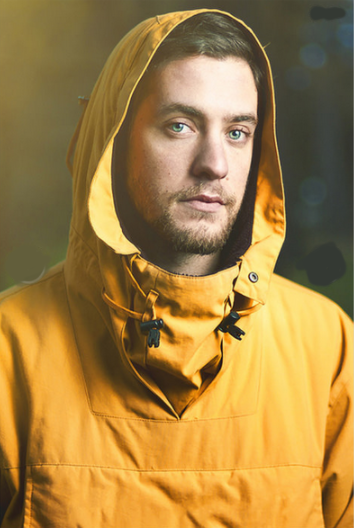
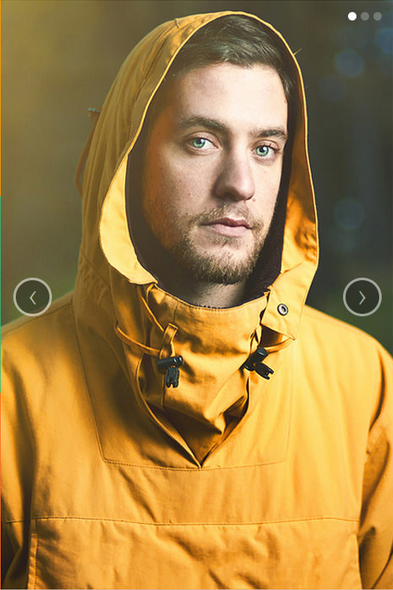
a

diff --git a/style.css b/style.css
@@ -1,280 +1,83 @@
-@font-face {
-    font-family: "Parisine";
-    src: url("Parisine.otf") format("opentype");
+* {
+    font-size: 12px;
+    color: white;
+    text-decoration: none;
 }
-
+.caseProp {
+    display: inline-block;
+    width: 20.1%;
+    height: 100%;
+}
 .menu {
-    width: 889px;
-    height: 525px;
-    border: 15px solid #d0d0d0;
-    font-family: "Parisine";
-    top: 0;
+    position: relative;
+    width: 800px;
+    height: 500px;
+    border: 10px darkgrey solid;
 }
-
-.absolute {
-    position: absolute;
+.ligne {
+    display: block;
+    width: 100%;
+    height: 33.33%;
 }
-
-.casePropriete {
-    width: 177px;
-    height: 175px;
-    position: absolute;
-}
-
-.lignePropriete {
-    position: absolute;
-    left: 0;
-}
-
-.icone {
-    z-index: 1;
-    position: absolute;
-}
-
-.ligne1 {
-    width: 531px;
-    height: 175px;
+.margeNega {
+    margin-right: -4px;
+    text-align: center;
 }
 .case1 {
-    top: 0;
-    left: 0;
-    width: 354px;
-    height: 175px;
-    background-color: #35bc7a;
+    display: inline-block;
+    width: 40%;
+    height: 100%;
+    background-color: darkseagreen;
+    margin-right: -4px;
 }
-
+.case1 .case li{
+    display: inline-block;
+    width: 80px;
+    height: 20px;
+    border: 2px solid white;
+    margin: 2% 8px;
+    text-align: center;
+}
+.case1 .titre {
+    font-size: 20px;
+    margin: 20px;
+}
+.case1 .text {
+    margin-left: 20px;
+}
 .case2 {
-    left: 354px;
-    background-color: #ff9e00
+    background-color: #ff9e00;
+    vertical-align: top;
 }
-
-.ligne2 {
-    top: 175px;
-    width: 531px;
-    height: 175px;
-}
-
 .case3 {
-    left: 0;
     background-color: #1e8bc4;
 }
-
 .case4 {
-    left: 177px;
     background-color: #f15a49;
 }
-
 .case5 {
-    left: 354px;
     background-color: #35bc7a;
 }
-
-.ligne3 {
-    top: 350px;
-    width: 531px;
-    height: 175px;
-}
-
 .case6 {
-    left: 0;
     background-color: #f86925;
 }
-
 .case7 {
-    left: 177px;
     background-color: #1e8bc4;
 }
-
 .case8 {
-    left: 354px;
     background-color: #f86925;
 }
-
-a {
-    text-decoration: none;
-    color: white;
-}
-
-br {
-    content: "";
-    display: block;
-    margin-top: 9px;
-}
-
-.case1 .titre {
-    color: white;
-    margin-top: 40px;
-    margin-left: 23px;
-    font-size: 20px;
-    text-transform: uppercase;
-}
-
-.case1 .text {
-    top: 72px;
-    color: white;
-    font-size: 10px;
-    margin-left: 22px;
-}
-
-.case1 .case {
-    padding: 0;
-    margin: 0;
-    list-style: none;
-    text-align: center;
-    vertical-align: center;
-
-}
-
-.case1 .case li {
-    display: inline;
-    padding: 0;
-    margin-right: 90px;
-}
-
-.case1 .case #case1 {
-    display: block;
-    left: 23px;
-    top: 120px;
-    width: 82px;
-    height: 32px;
-    border: solid white 2px;
-}
-
-.case1 .case #case1 span {
-    position: relative;
-    top: 17%;
-    color: white;
-    font-size: 10px;
-}
-
-.case1 .case #case2 {
-    display: block;
-    left: 115px;
-    top: 120px;
-    width: 82px;
-    height: 32px;
-    border: solid white 2px;
-}
-
-.case1 .case #case2 span {
-    position: relative;
-    top: 17%;
-    color: white;
-    font-size: 10px;
-}
-
-.case2{
-    color: white;
-}
-
-.case2 i{
-    top: 30%;
-    left: 35%;
+.textIcone {
+    padding-top: 30%;
     font-size: 40px;
 }
-
-.case2 p {
-    top: 50%;
-    left: 35%;
-    font-size: 12px;
-}
-
-.case3 i{
-    top: 30%;
-    left: 35%;
-    font-size: 40px;
-}
-
-.case3 p {
-    top: 50%;
-    left: 25%;
-    font-size: 12px;
-}
-
-.case4 i{
-    top: 30%;
-    left: 35%;
-    font-size: 40px;
-}
-
-.case4 p {
-    top: 50%;
-    left: 25%;
-    font-size: 12px;
-}
-
-.case5 i{
-    top: 30%;
-    left: 35%;
-    font-size: 40px;
-}
-
-.case5 p {
-    top: 50%;
-    left: 36.5%;
-    font-size: 12px;
-}
-
-.case6 i{
-    top: 30%;
-    left: 35%;
-    font-size: 40px;
-}
-
-.case6 p {
-    top: 50%;
-    left: 23%;
-    font-size: 12px;
-}
-
-.case7 i{
-    top: 30%;
-    left: 35%;
-    font-size: 40px;
-}
-
-.case7 p {
-    top: 50%;
-    left: 30%;
-    font-size: 12px;
-}
-
-.case8 i{
-    top: 30%;
-    left: 35%;
-    font-size: 40px;
-}
-
-.case8 p {
-    top: 50%;
-    left: 31%;
-    font-size: 12px;
-}
-
-.imageDroite img {
+img {
+    position: absolute;
     top: 0;
-    left: 531px;
-    width: 359px;
-    height: 525px;
+    right: 0;
+    width: 40%;
+    height: 100%;
 }
-
-.imageDroite .flecheGauche {
-    top: 255px;
-    left: 538px;
-    font-size: 30px;
-    color: white;
-}
-
-.imageDroite .flecheDroite {
-    top: 255px;
-    left: 865px;
-    font-size: 30px;
-    color: white;
-}
-
-.imageDroite .point {
-    top: 1px;
-    right: 10px;
-    font-size: 30px;
-    color: white;
+.textIcone p{
+    font-size: 12px;
 }

diff --git a/index.html b/index.html
@@ -7,39 +7,34 @@
     <script src="https://kit.fontawesome.com/78e483bd6f.js" crossorigin="anonymous"></script>
 </head>
 <body>
-    <div class="menu absolute">
-        <div class="ligne1 lignePropriete">
-            <div class="case1 absolute">
+    <div class="menu">
+        <div class="ligne">
+            <div class="case1">
                 <p class="titre">
                     Bradley cooper
                 </p>
-                <p class="text absolute">
+                <p class="text">
                     I'm a Graphix Designer, Coder & Entrepreneur. <br>
                     Take a look at my portfolio to see what I was Working.
                 </p>
                 <ul class="case">
-                    <li><a href="#" id="case1" class="absolute"><span><i class="fas fa-download"></i> RESUME</span></a></li>
-                    <li><a href="#" id="case2" class="absolute"><span><i class="fas fa-info"></i> CONTACT</span></a></li>
+                    <li><a href="#" id="case1"><span><i class="fas fa-download inline"></i> RESUME</span></a></li>
+                    <li><a href="#" id="case2"><span><i class="fas fa-info"></i> CONTACT</span></a></li>
                 </ul>
             </div>
-            <a href="#" class="case2 casePropriete absolute"><i class="far absolute fa-address-card"></i><p class="absolute">PROFILE</p></a>
+            <a href="#" class="case2 caseProp margeNega"><i class="far fa-address-card textIcone"></i><p>PROFILE</p></a>
         </div>
-        <div class="ligne2 lignePropriete">
-            <a href="#"  class="case3 casePropriete"><i class="far absolute fa-chart-bar"></i><p class="absolute">EXPERIENCE</p></a>
-            <a href="#" class="case4 casePropriete"><i class="fas absolute fa-book"></i><p class="absolute">EDUCATION</p></a>
-            <a href="#" class="case5 casePropriete"><i class="far absolute fa-edit"></i><p class="absolute">BLOG</p></a>
+        <div class="ligne">
+            <a href="#"  class="case3 caseProp margeNega"><i class="far fa-chart-bar textIcone"></i><p>EXPERIENCE</p></a>
+            <a href="#" class="case4 caseProp margeNega"><i class="fas fa-book textIcone"></i><p>EDUCATION</p></a>
+            <a href="#" class="case5 caseProp margeNega"><i class="far fa-edit textIcone"></i><p>BLOG</p></a>
         </div>
-        <div class="ligne3 lignePropriete">
-            <a href="#" class="case6 casePropriete"><i class="far absolute fa-plus-square"></i><p class="absolute">SOCIAL MENU</p></a>
-            <a href="#" class="case7 casePropriete"><i class="far absolute fa-paper-plane"></i><p class="absolute">CONTACT</p></a>
-            <a href="#" class="case8 casePropriete"><i class="fas absolute fa-tv"></i><p class="absolute">PORTFOLIO</p></a>
+        <div class="ligne">
+            <a href="#" class="case6 caseProp margeNega"><i class="far fa-plus-square textIcone"></i><p>SOCIAL MENU</p></a>
+            <a href="#" class="case7 caseProp margeNega"><i class="far fa-paper-plane textIcone"></i><p>CONTACT</p></a>
+            <a href="#" class="case8 caseProp margeNega"><i class="fas fa-tv textIcone"></i><p>PORTFOLIO</p></a>
         </div>
-        <div class="imageDroite ">
-            <img src="image1.png" alt="image1" class="absolute">
-            <i class="flecheGauche icone fas fa-chevron-left"></i>
-            <i class="flecheDroite icone fas fa-chevron-right"></i>
-            <i class="point icone fas fa-ellipsis-h"></i>
-        </div>
-        </div>
+        <img src="image1.png" alt="image1">
+    </div>
 </body>
 </html>
